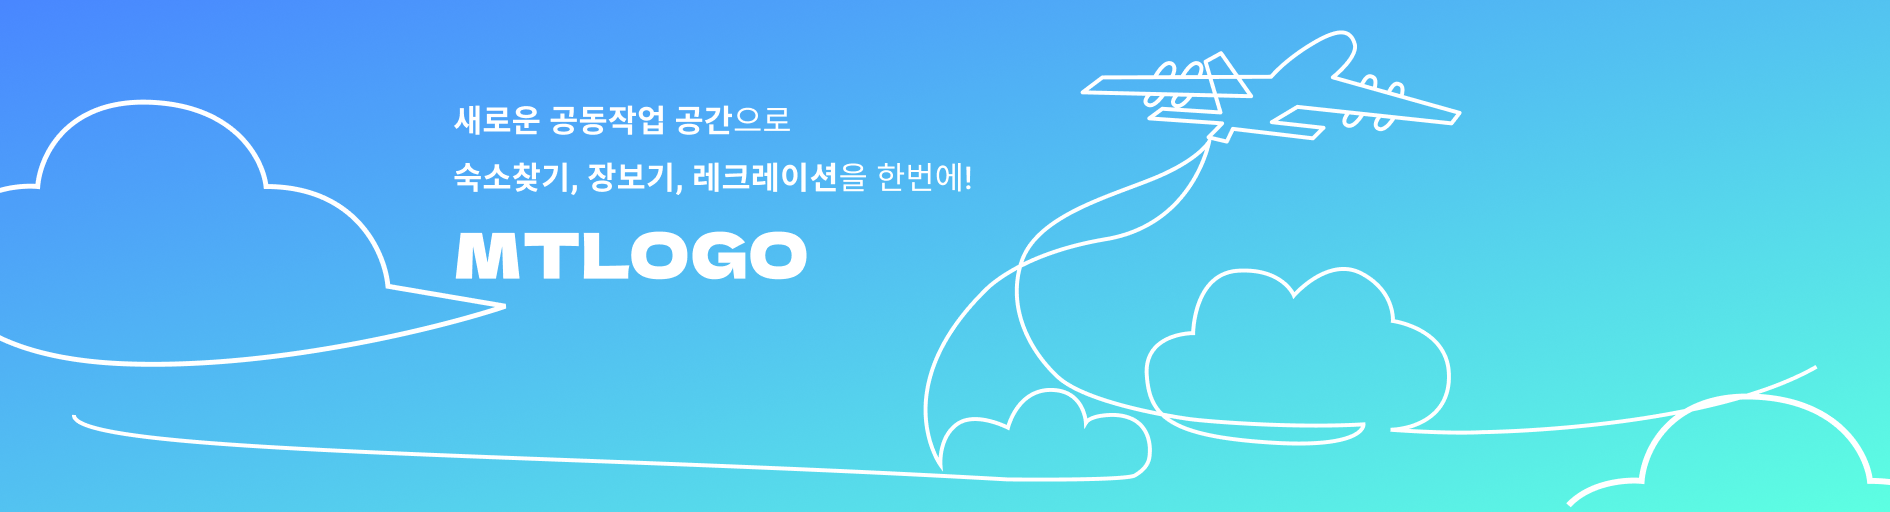
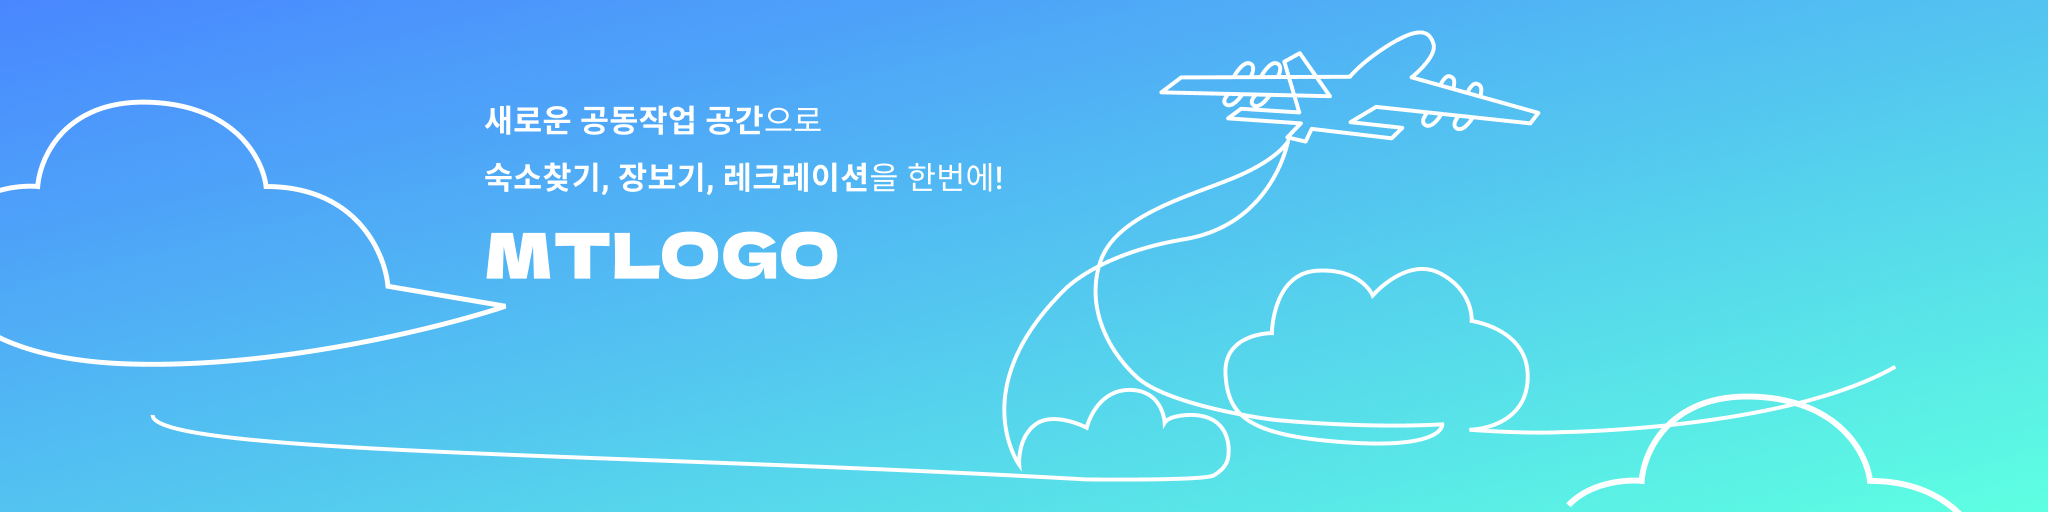
feat: mainpage, footer, shopping 페이지 수정

diff --git a/src/pages/Main.jsx b/src/pages/Main.jsx
@@ -13,7 +13,7 @@ import { mobileSize } from '../utils/MediaSize';
 
 // import COLOR from '../constants/color';
 
-const mediaSize = 1030;
+const mediaSize = 1100;
 
 const MainLayout = styled.div`
   width: 100%;
@@ -23,11 +23,16 @@ const MainLayout = styled.div`
 // 배너 - 메인 img
 const Banner = styled.div`
   width: 100%;
+  max-height: 320px;
+  min-height: 200px;
   position: relative;
 `;
 
 const BannerImg = styled.img`
   width: 100%;
+  max-height: 330px;
+  min-height: 250px;
+  object-fit: cover;
   @media (max-width: ${mobileSize}px) {
     content: url(${MobileBanner});
   }
@@ -35,12 +40,12 @@ const BannerImg = styled.img`
 
 // 전체 적용 마진
 const ContentLayout = styled.div`
-  margin: 4rem 7rem;
+  margin: 5rem 11vh;
   padding: 0 3rem;
   position: relative;
   transition: 0.3s;
   @media (max-width: ${mediaSize}px) {
-    margin: 4rem 2rem;
+    margin: 4rem 6vh;
   }
   @media (max-width: ${mobileSize}px) {
     margin: 0;
@@ -54,12 +59,12 @@ const Flexdiv = styled.div`
   display: flex;
   flex-wrap: nowrap;
   gap: 3rem;
-  margin: 4rem;
+  margin: 2rem 2rem 5rem 2rem;
   padding-bottom: 0.5rem;
   height: 100%;
   overflow-x: auto;
   scroll-behavior: smooth;
-  -webkit-overflow-scrolling: touch;
+
   transition: 0.3s;
   @media (max-width: ${mediaSize}px) {
     margin: 4rem 2rem;
@@ -72,12 +77,12 @@ const Flexdiv = styled.div`
 
 // 추천 단체숙소
 const Title = styled.div`
-  font-size: 32px;
+  font-size: 26px;
   font-weight: 700;
   margin: 1rem 0;
   transition: 0.3s;
   @media (max-width: ${mediaSize}px) {
-    font-size: 24px;
+    font-size: 22px;
   }
   @media (max-width: ${mobileSize}px) {
     font-size: 16px;
@@ -89,7 +94,7 @@ const Title = styled.div`
 `;
 
 const SubTitle = styled.span`
-  font-size: 20px;
+  font-size: 17px;
   color: ${COLOR.gray};
   transition: 0.3s;
   @media (max-width: ${mediaSize}px) {

diff --git a/src/pages/Shopping.jsx b/src/pages/Shopping.jsx
@@ -152,13 +152,13 @@ const Checklist = styled.div`
   height: 660px;
   position: fixed;
   right: 15%;
-  top: 180px;
+  top: 500px;
 
   transition: opacity 0.2s ease-in-out;
-  @media (max-width: 1348px) {
+  @media (max-width: 1380px) {
     right: 10%;
   }
-  @media (max-width: 1150px) {
+  @media (max-width: 1210px) {
     right: 4%;
   }
   @media (max-width: 855px) {

diff --git a/src/components/Footer/MobileFooter.jsx b/src/components/Footer/MobileFooter.jsx
@@ -74,7 +74,7 @@ const Footertitle = styled.div`
 
 const MobileFooter = () => {
   const navigate = useNavigate();
-  const [activeMenu, setActiveMenu] = useState('');
+  const [activeMenu, setActiveMenu] = useState('home');
 
   const handleMenuClick = (menu) => {
     setActiveMenu(menu);
